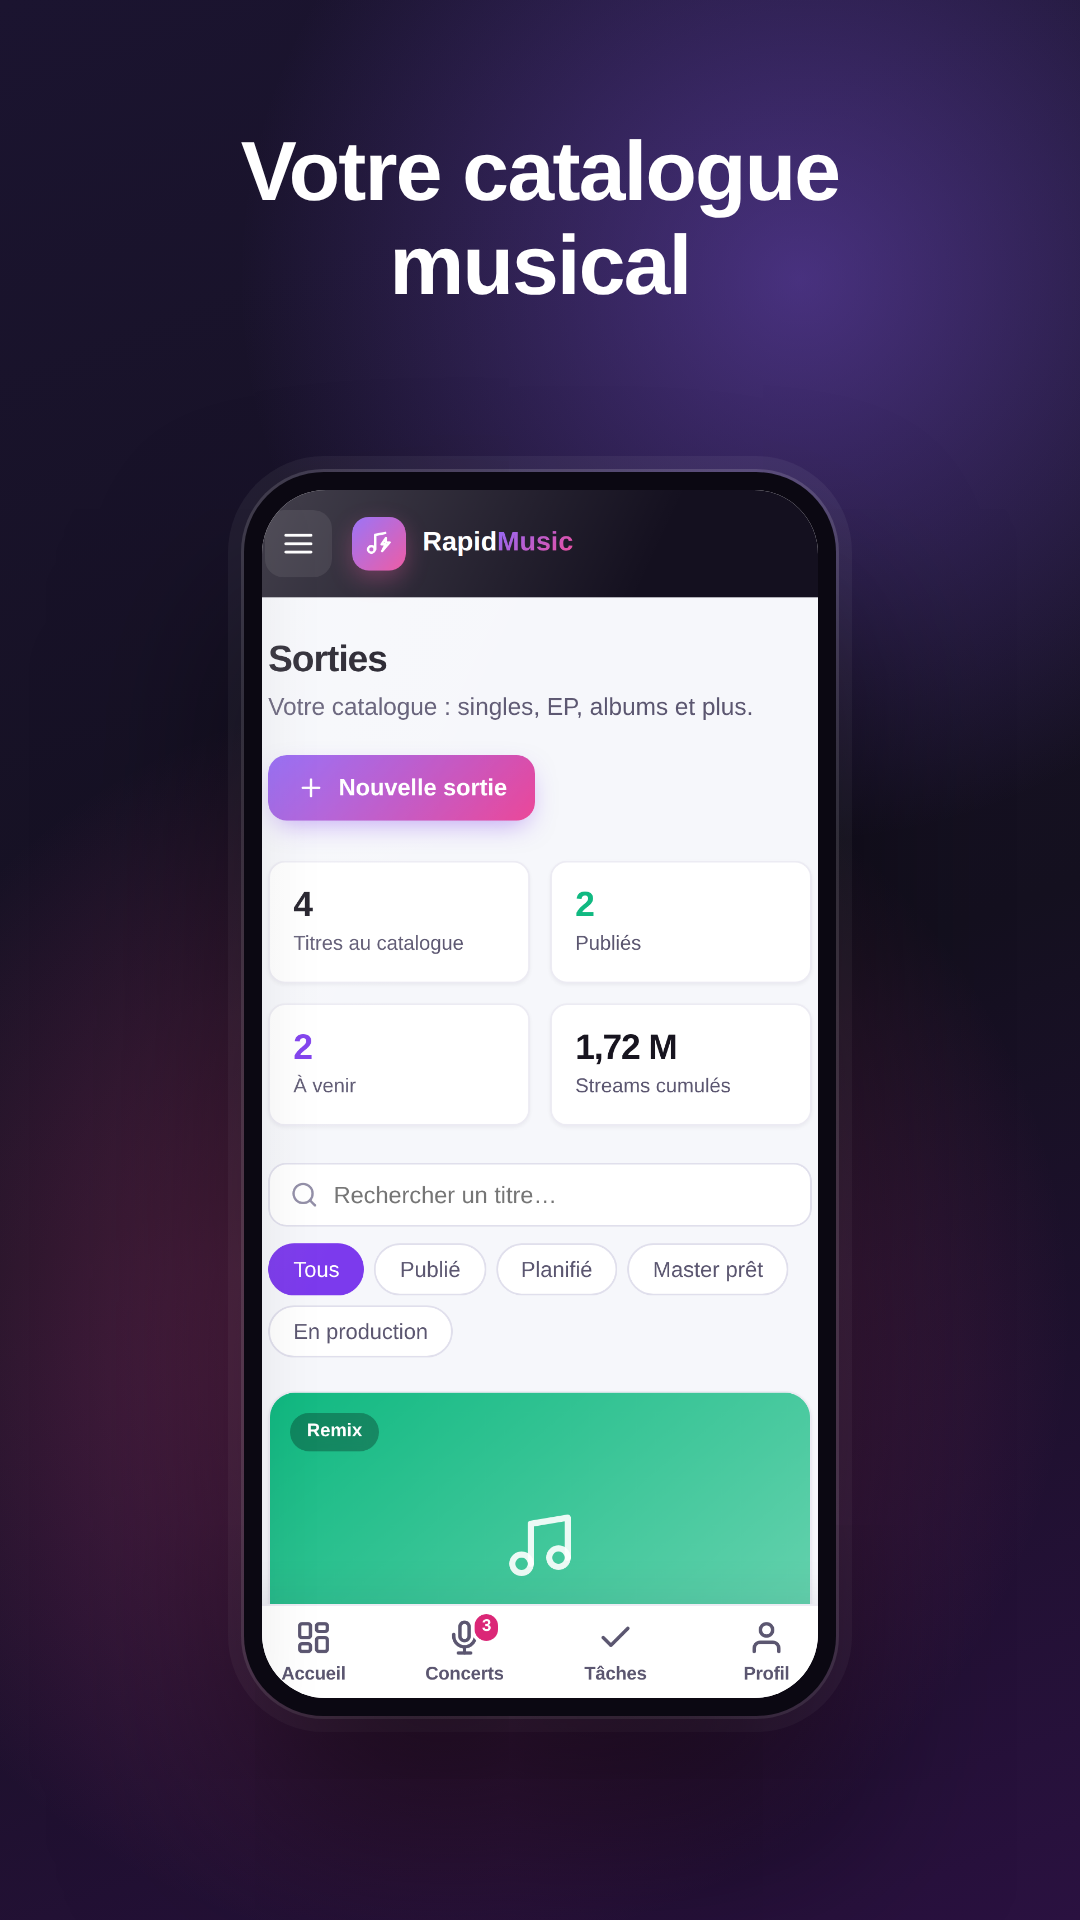
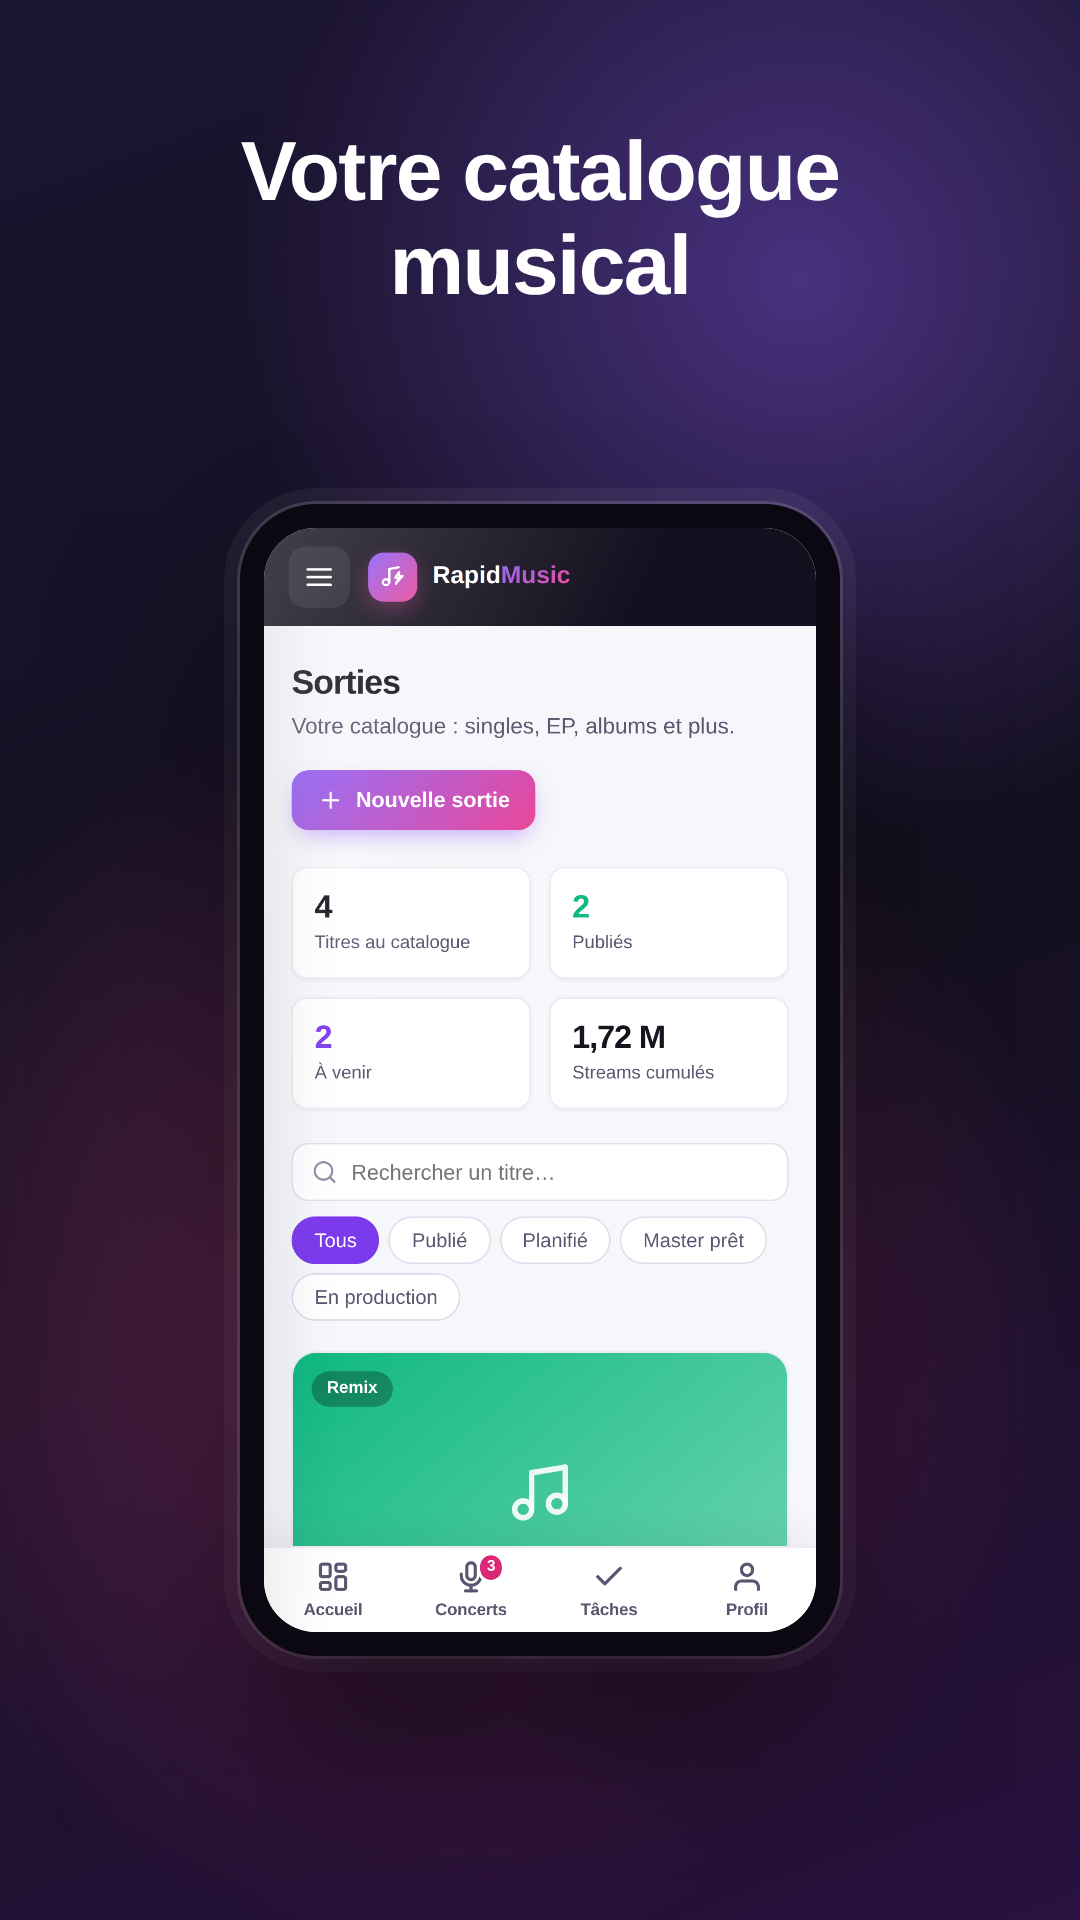
Rend au contenu des visuels la marge que le recadrage lui prenait
Le contenu touchait presque le cadre du téléphone. La cause n'était pas
l'épaisseur du cadre mais un rapport de forme : l'écran faisait 278 × 604,
soit 1:2,17, alors que la capture est en 1:2 exactement. « cover » remplit
toujours le cadre — il le faisait en rognant 14,3 px de chaque bord.

Or la marge intérieure des pages de l'application est de 18 px. Il en
restait 3,7. Mesuré sur l'image produite, du bord du téléphone au premier
pixel de contenu :

            cadre   marge de l'appli   total
  avant     18 px         6 px         24 px
  après     24 px        28 px         52 px

L'écran est donc passé en 276 × 552, le double exact en hauteur, et plus
rien n'est rogné. Le cadre gagne 3 px au passage.

Ce recadrage se faisait sans bruit : l'image avait l'air correcte, elle
avait seulement perdu ses bords. Les dimensions vivent maintenant dans
une constante et l'égalité des rapports est vérifiée au démarrage du
script, avec un message qui dit combien de pixels sauteraient.

Le corps du téléphone est un peu moins élancé qu'avant (1,92 contre 2,1).
C'est la conséquence d'un écran en 1:2, imposé par Google, qui refuse une
capture dont le grand côté dépasse le double du petit.

Le titre du premier visuel devient « Pilotez mieux votre carrière ».

Le LISEZ-MOI parlait encore d'un téléphone « en perspective », ce qu'il
n'est plus depuis qu'ils ont été redressés.

Claude-Session: https://claude.ai/code/session_016NdhJ6ZM2bMA8wvay7hfnF

diff --git a/play-store/LISEZ-MOI.md b/play-store/LISEZ-MOI.md
@@ -13,8 +13,8 @@ L'icône ne vient pas d'ici : c'est `public/icon-512.png`.
 
 ## Visuels ou captures brutes ?
 
-**Envoyez les `visuel-`.** Ce sont les mêmes écrans, posés dans un téléphone en
-perspective sur le violet de la marque, avec une phrase au-dessus. Une capture
+**Envoyez les `visuel-`.** Ce sont les mêmes écrans, posés dans un cadre de
+téléphone sur le violet de la marque, avec une phrase au-dessus. Une capture
 brute montre l'application ; elle ne dit pas à quoi elle sert. La phrase, si —
 et c'est elle qu'on lit en faisant défiler la fiche.
 
